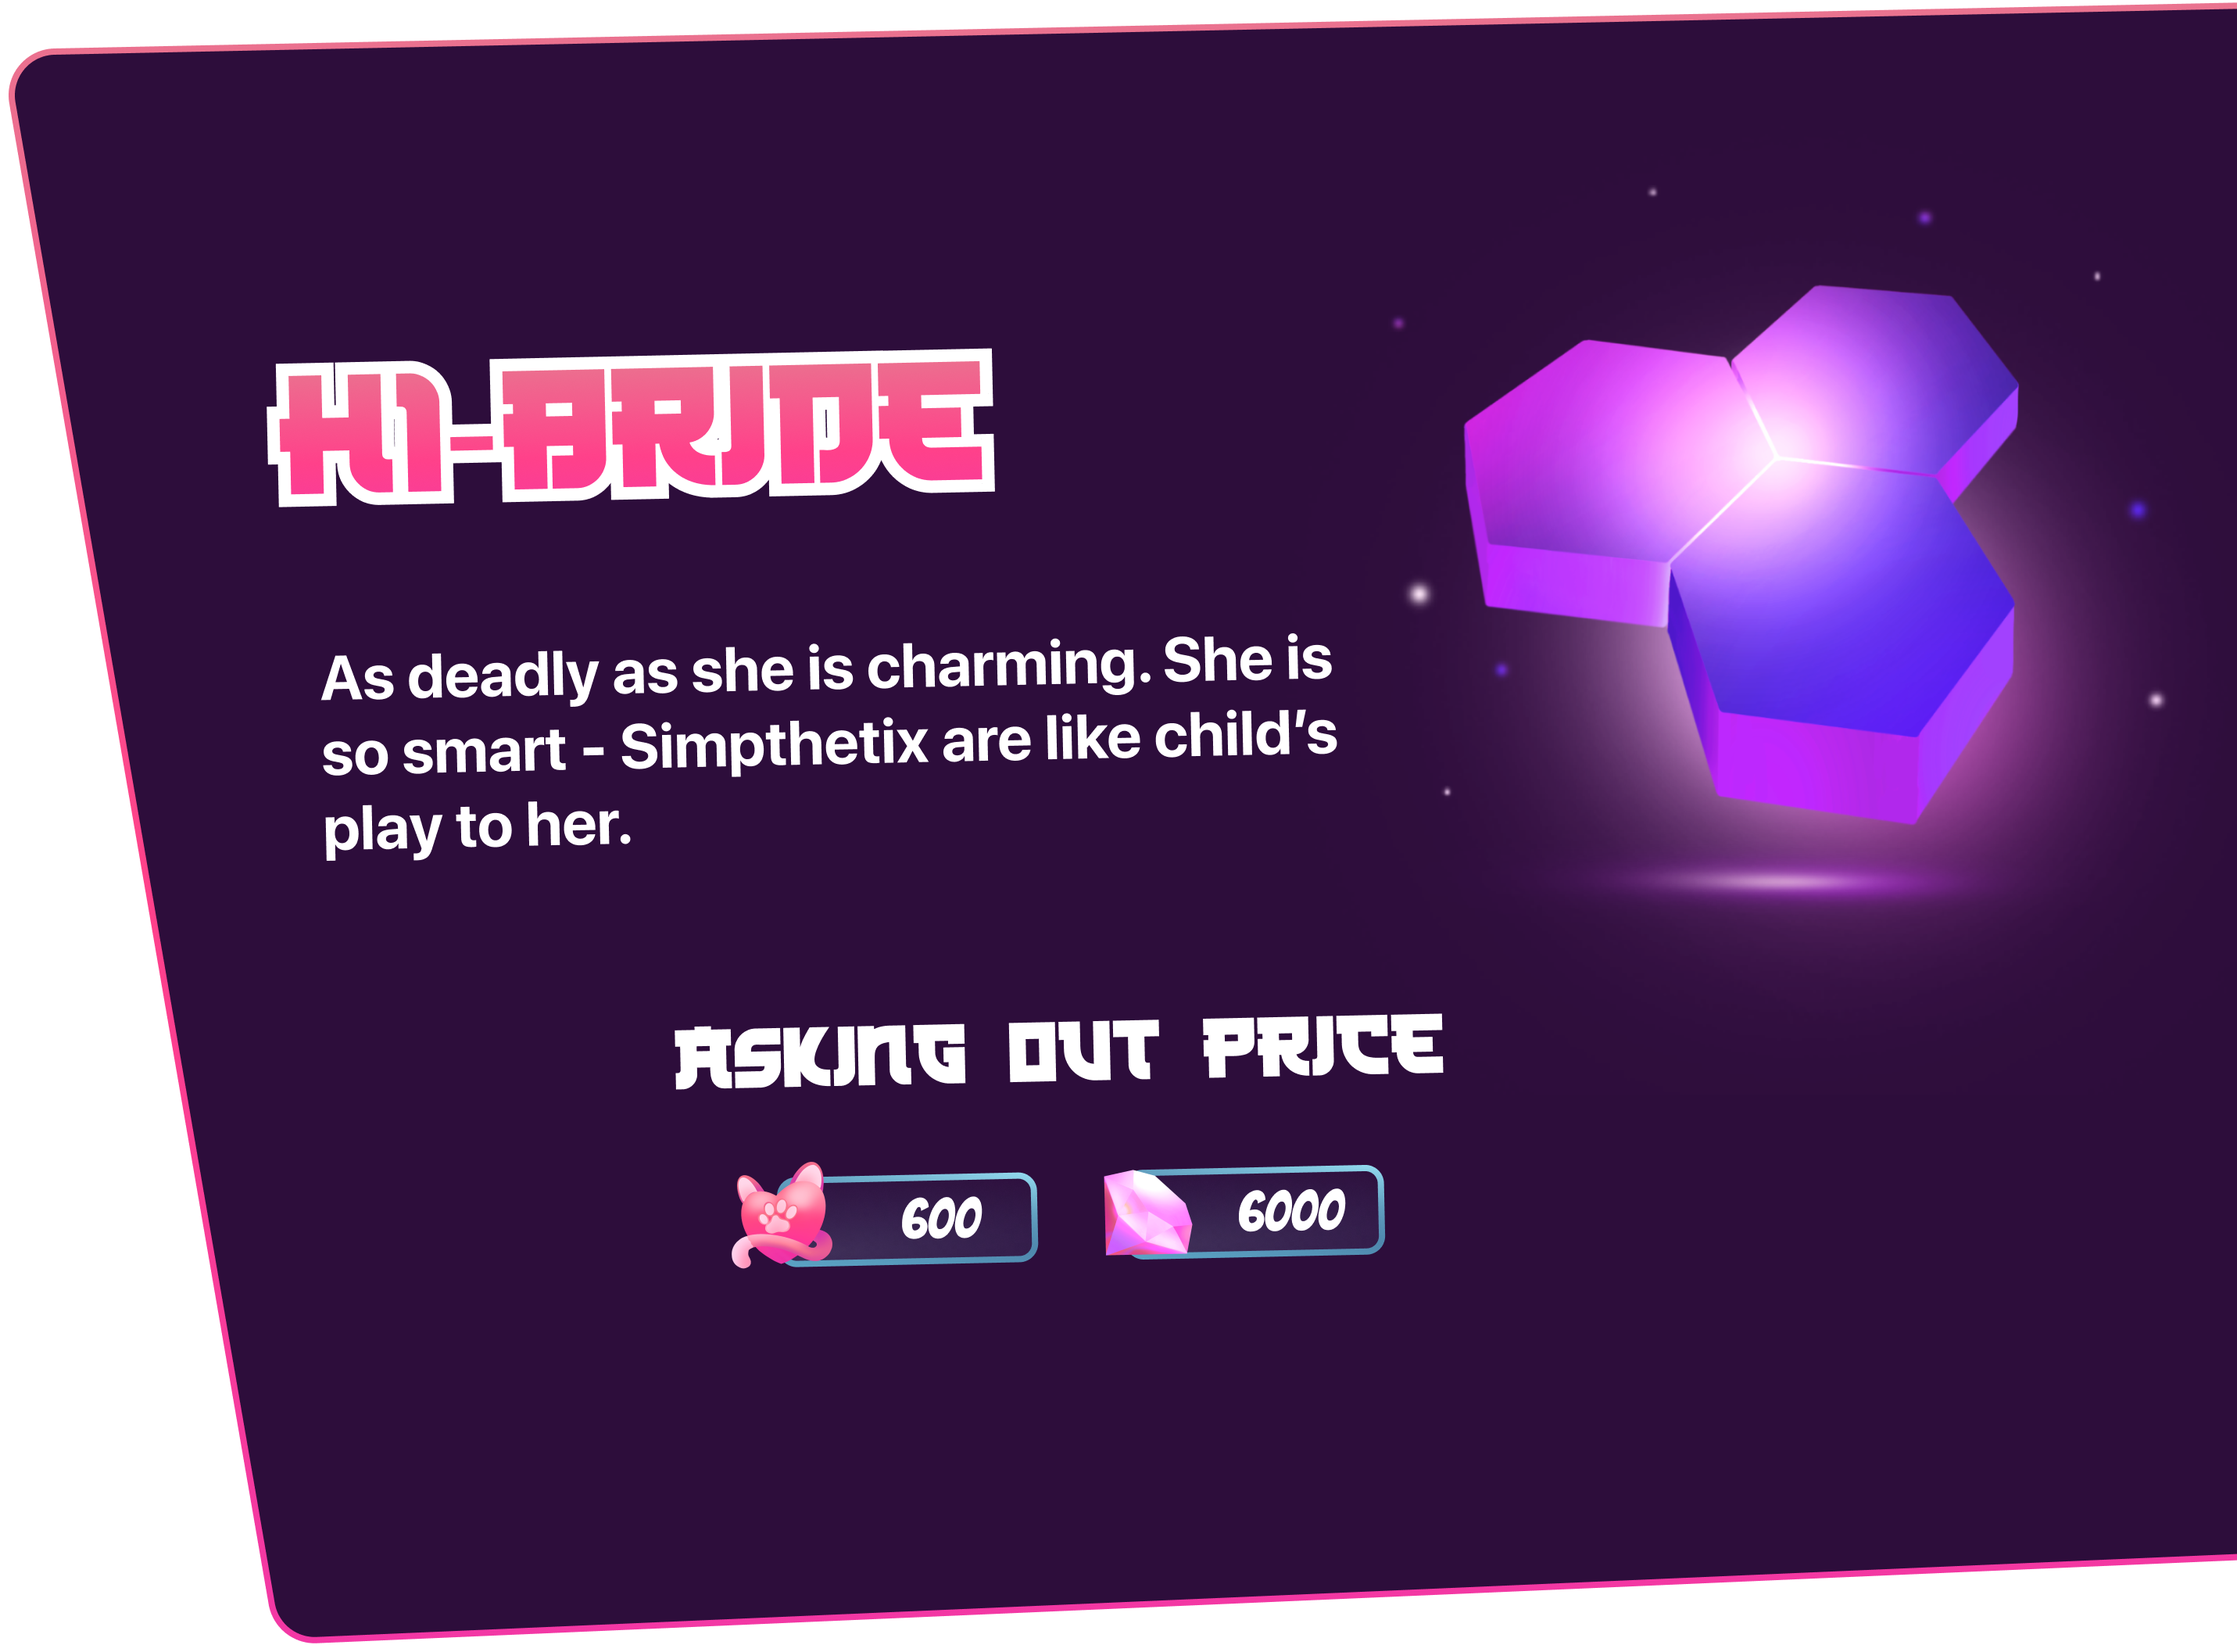
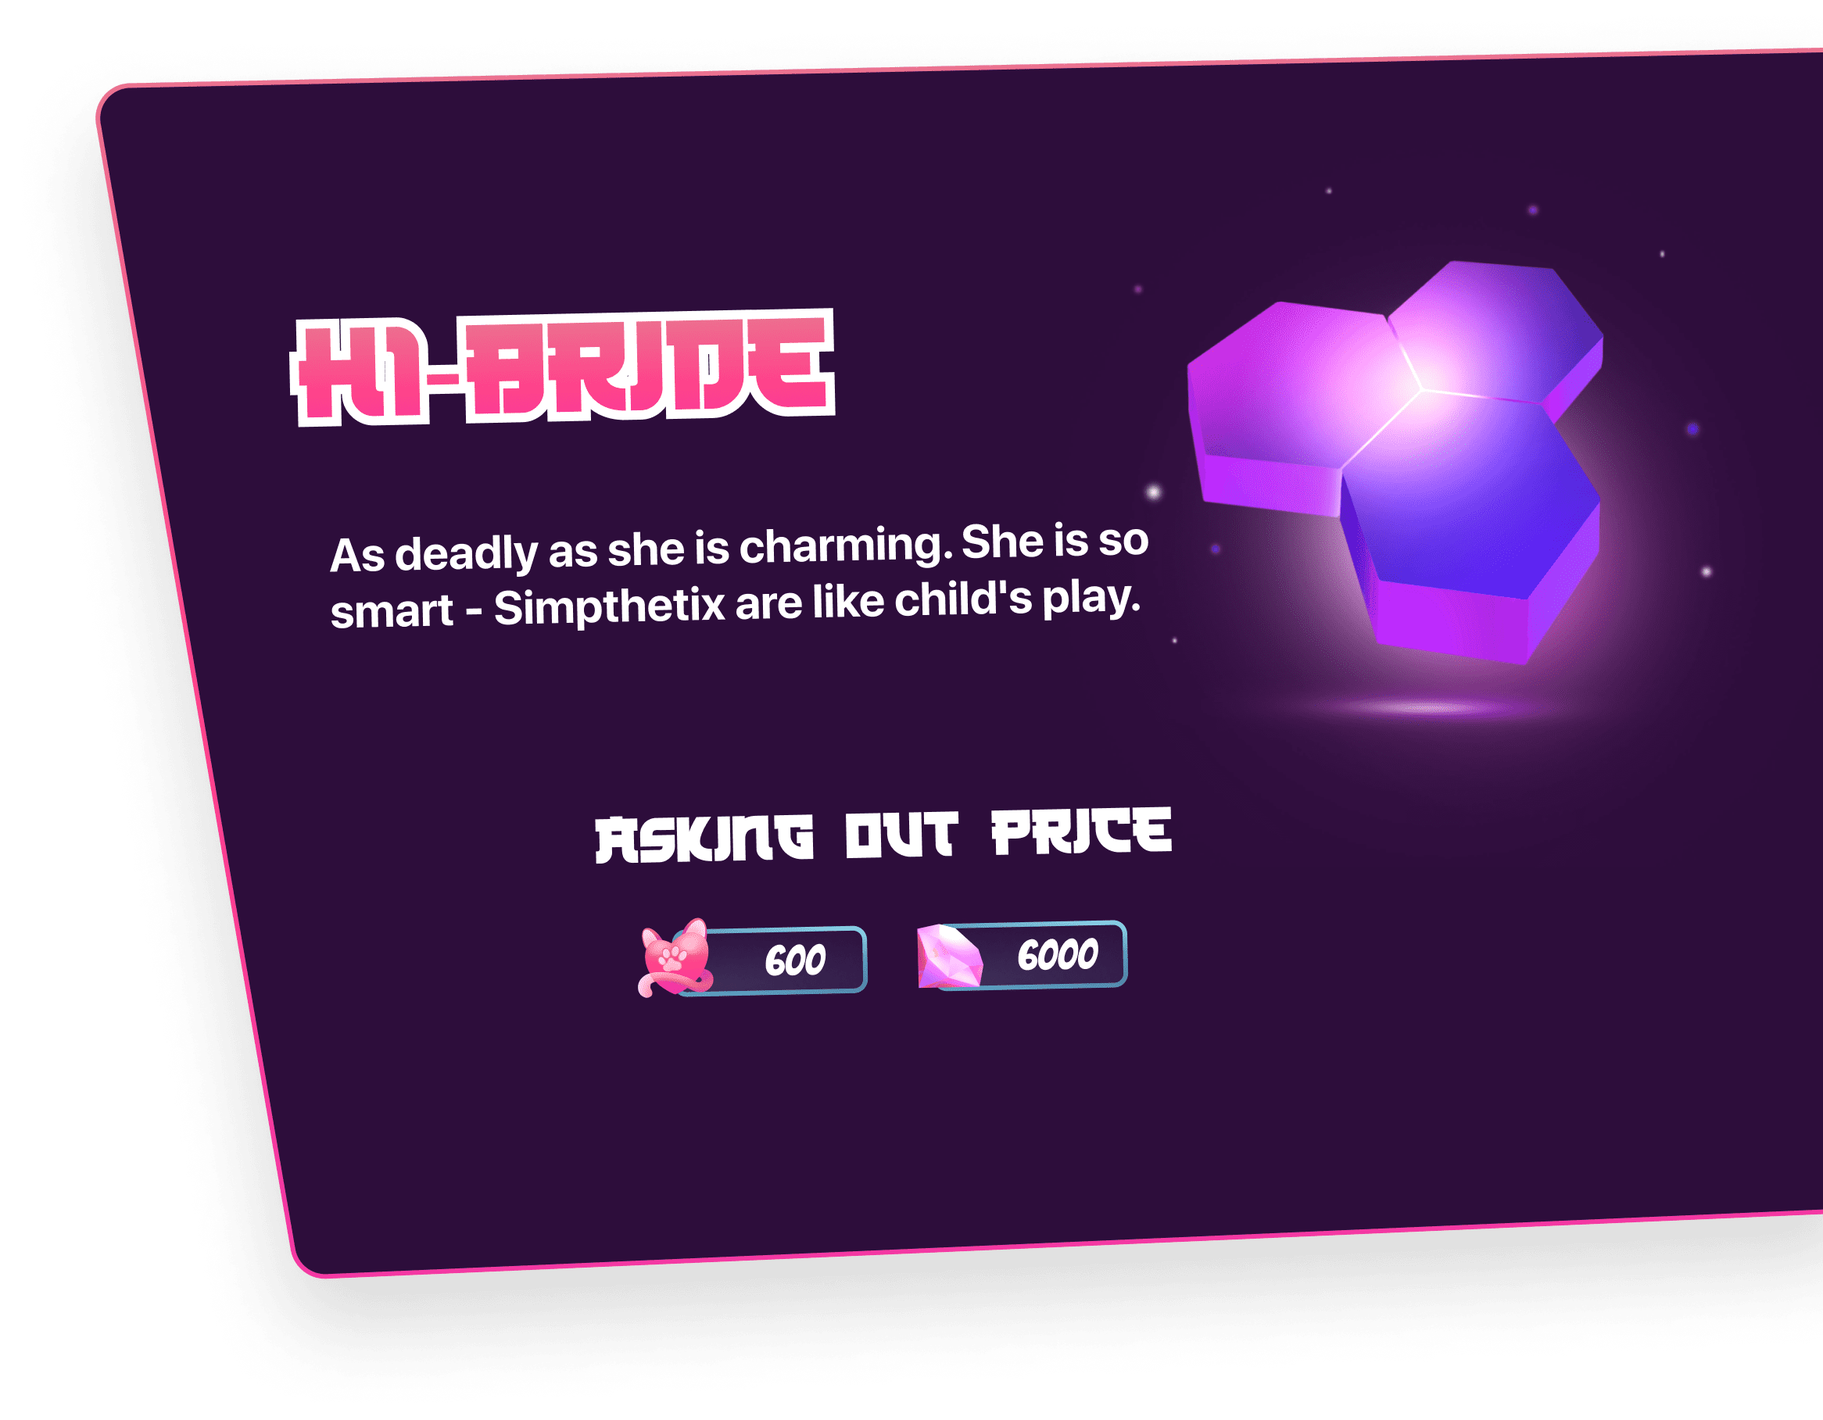
change slide

Changed region(s): [[0.0, 0.0, 1.0, 1.0], [0.2779, 0.5548, 0.6484, 0.7705]]

diff --git a/components/landing/slider-characters/index.tsx b/components/landing/slider-characters/index.tsx
@@ -1,6 +1,5 @@
 import React, { useState } from 'react'
 import styles from './slider_characters.module.scss'
-import Image from 'next/image'
 import Slider from 'react-slick'
 import { SliderItem } from 'components/shared-ui/slider-item'
 import classNames from 'classnames'
@@ -43,7 +42,7 @@ const characters: CharacterSlider[] = [
     imageDesktop: imageDesktop2,
   },
   {
-    background: 'character-background3',
+    background: 'character-background4_peace',
     characterImg: Character3,
     title: 'Hitomi',
     description:
@@ -57,7 +56,7 @@ const characters: CharacterSlider[] = [
     imageDesktop: imageDesktop3,
   },
   {
-    background: 'character-background4_peace',
+    background: 'character-background3',
     characterImg: Character4,
     title: 'H1-bride',
     description:
